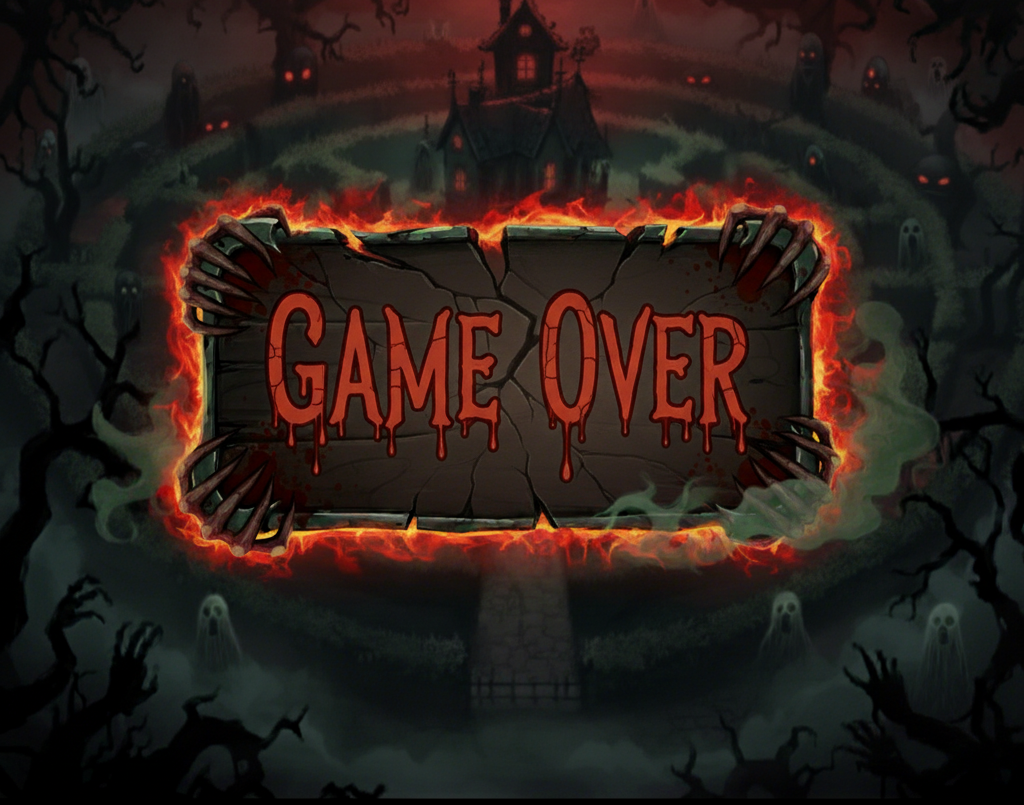
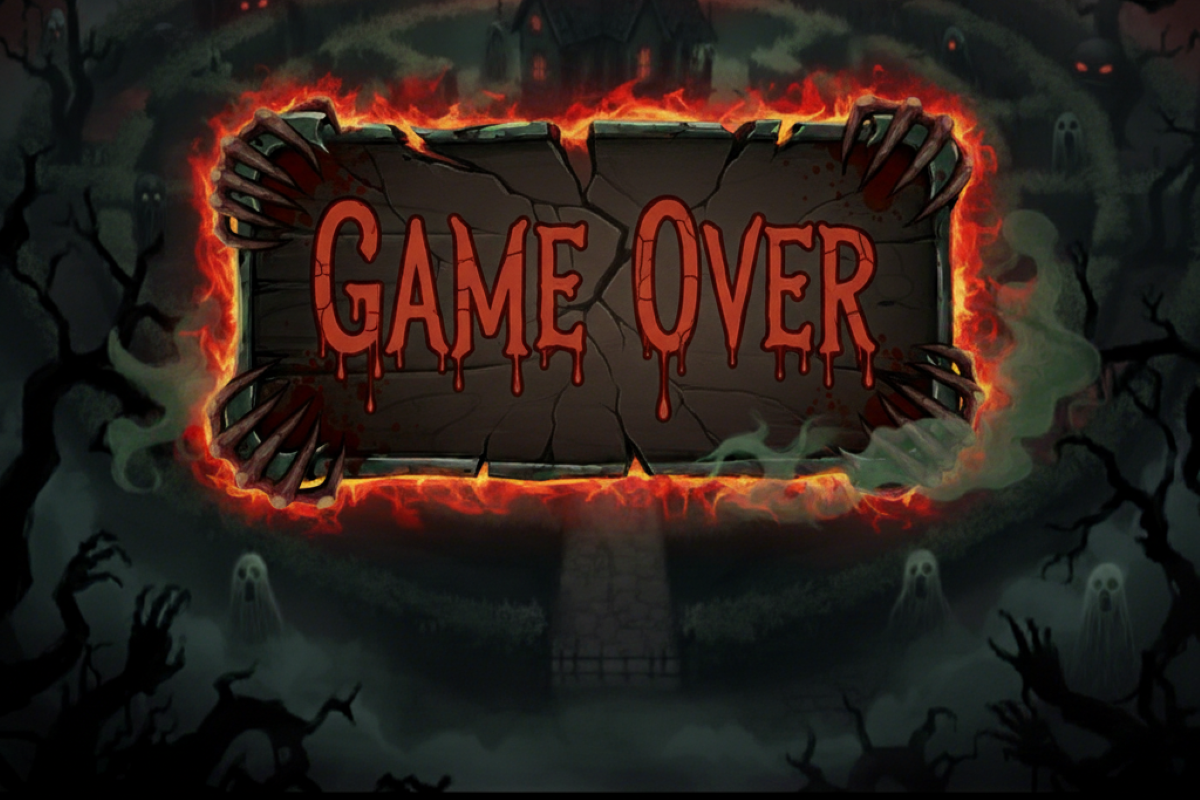
fix gameover panel screen

diff --git a/src/main/GameOverPanel.java b/src/main/GameOverPanel.java
@@ -1,7 +1,7 @@
+package main;
+
 import javax.swing.*;
 import java.awt.*;
-import java.awt.event.ActionEvent;
-import java.awt.event.ActionListener;
 
 public class GameOverPanel extends JPanel {
     public interface GameOverListener {
@@ -10,46 +10,90 @@ public class GameOverPanel extends JPanel {
     }
 
     private final GameOverListener listener;
+    private final Image backgroundImage;
+
+    // keep references so we can position them dynamically
+    private final JLabel title;
+    private final JButton retryButton;
+    private final JButton quitButton;
 
     public GameOverPanel(GameOverListener listener) {
         this.listener = listener;
         setLayout(null);
-        setOpaque(false);
-        setBounds(0, 0, 1024, 805);
+        setOpaque(false); // We are drawing a background image, so the panel itself should be transparent
 
-        // Background (semi-transparent overlay)
-        setBackground(new Color(0, 0, 0, 150));
+        // Load the background image
+        backgroundImage = new ImageIcon("src/assets/Images/GameOverPanel.png").getImage();
 
-        JLabel title = new JLabel("GAME OVER", SwingConstants.CENTER);
+        title = new JLabel("GAME OVER", SwingConstants.CENTER);
         title.setFont(new Font("Serif", Font.BOLD, 80));
         title.setForeground(Color.RED);
-        title.setBounds(200, 200, 600, 100);
         add(title);
 
-        JButton retryButton = new JButton("RETRY");
-        retryButton.setBounds(350, 350, 120, 50);
+        retryButton = new JButton("RETRY");
         retryButton.addActionListener(e -> {
-            Container parent = getParent();
-            if (parent != null) parent.remove(this);
+            // Get the top-level frame
+            JFrame frame = (JFrame) SwingUtilities.getWindowAncestor(this);
+            if (frame != null) {
+                // Get the glass pane, hide it, and remove our overlay
+                JPanel glassPane = (JPanel) frame.getGlassPane();
+                glassPane.setVisible(false);
+                glassPane.removeAll();
+            }
             if (listener != null) listener.onRetry();
         });
         add(retryButton);
 
-        JButton quitButton = new JButton("QUIT");
-        quitButton.setBounds(550, 350, 120, 50);
+        quitButton = new JButton("QUIT");
         quitButton.addActionListener(e -> {
-            Container parent = getParent();
-            if (parent != null) parent.remove(this);
+            // Get the top-level frame
+            JFrame frame = (JFrame) SwingUtilities.getWindowAncestor(this);
+            if (frame != null) {
+                // Get the glass pane, hide it, and remove our overlay
+                JPanel glassPane = (JPanel) frame.getGlassPane();
+                glassPane.setVisible(false);
+                glassPane.removeAll();
+            }
             if (listener != null) listener.onQuit();
         });
         add(quitButton);
     }
 
+    // layout components relative to current size so they remain visible on all resolutions
+    @Override
+    public void doLayout() {
+        int w = getWidth();
+        int h = getHeight();
+        int titleW = Math.min(800, (int)(w * 0.7));
+        int titleH = Math.min(120, (int)(h * 0.15));
+        title.setBounds((w - titleW) / 2, Math.max(20, h / 6 - titleH / 2), titleW, titleH);
+
+        int btnW = Math.min(160, (int)(w * 0.12));
+        int btnH = Math.min(60, (int)(h * 0.08));
+        int gap = 20;
+        int totalW = btnW * 2 + gap;
+        int startX = (w - totalW) / 2;
+        int y = Math.min(h - btnH - 40, h / 2);
+
+        retryButton.setBounds(startX, y, btnW, btnH);
+        quitButton.setBounds(startX + btnW + gap, y, btnW, btnH);
+    }
+
     @Override
     protected void paintComponent(Graphics g) {
         super.paintComponent(g);
-        // Dark transparent overlay
+        // Draw a semi-transparent background
         g.setColor(new Color(0, 0, 0, 180));
         g.fillRect(0, 0, getWidth(), getHeight());
+
+        // Draw the background image on top
+        if (backgroundImage != null) {
+            // Center the image
+            int imgWidth = backgroundImage.getWidth(this);
+            int imgHeight = backgroundImage.getHeight(this);
+            int x = (getWidth() - imgWidth) / 2;
+            int y = (getHeight() - imgHeight) / 2;
+            g.drawImage(backgroundImage, x, y, this);
+        }
     }
 }

diff --git a/src/main/GamePanel.java b/src/main/GamePanel.java
@@ -1,4 +1,4 @@
-package main;
+package main;
 
 import javax.swing.*;
 import java.awt.*;
@@ -216,38 +216,31 @@ public class GamePanel extends JPanel implements KeyListener, Runnable {
                 parentFrame.repaint();
             }
         };
-        SwingUtilities.invokeLater(() -> {
-            JFrame parentFrame = (JFrame) SwingUtilities.getWindowAncestor(this);
-            JLayeredPane layeredPane = parentFrame.getLayeredPane();
-        
-            GameOverPanel overlay = new GameOverPanel(new GameOverPanel.GameOverListener() {
-                public void onRetry() {
-                    parentFrame.getContentPane().removeAll();
-                    GamePanel retryPanel = new GamePanel(levelManager, playerName);
-                    parentFrame.add(retryPanel);
-                    parentFrame.pack();
-                    parentFrame.revalidate();
-                    parentFrame.repaint();
-                    retryPanel.requestFocusInWindow();
-                }
-        
-                public void onQuit() {
-                    parentFrame.getContentPane().removeAll();
-                    MainMenu menuPanel = new MainMenu(parentFrame);
-                    parentFrame.add(menuPanel);
-                    parentFrame.pack();
-                    parentFrame.revalidate();
-                    parentFrame.repaint();
-                }
-            });
-        
-            overlay.setBounds(0, 0, 1024, 805);
-            layeredPane.add(overlay, JLayeredPane.POPUP_LAYER);
-            layeredPane.moveToFront(overlay);
-            layeredPane.revalidate();
-            layeredPane.repaint();
-        });
-        
+        // ...existing code...
+SwingUtilities.invokeLater(() -> {
+    JFrame parentFrame1 = (JFrame) SwingUtilities.getWindowAncestor(this);
+    if (parentFrame == null) {
+        System.out.println("handleGameOver: parentFrame is null");
+        return;
+    }
+
+    // Create the overlay panel
+    GameOverPanel overlay = new GameOverPanel(listener);
+
+    // Get the glass pane and set its layout
+    JPanel glassPane = (JPanel) parentFrame1.getGlassPane();
+    glassPane.setLayout(new GridLayout(1, 1));
+    glassPane.removeAll(); // Clear previous components
+    glassPane.add(overlay);
+
+    // Make the glass pane visible
+    glassPane.setVisible(true);
+
+    // Revalidate and repaint to show the overlay
+    parentFrame1.revalidate();
+    parentFrame1.repaint();
+});
+
         
     }
     
